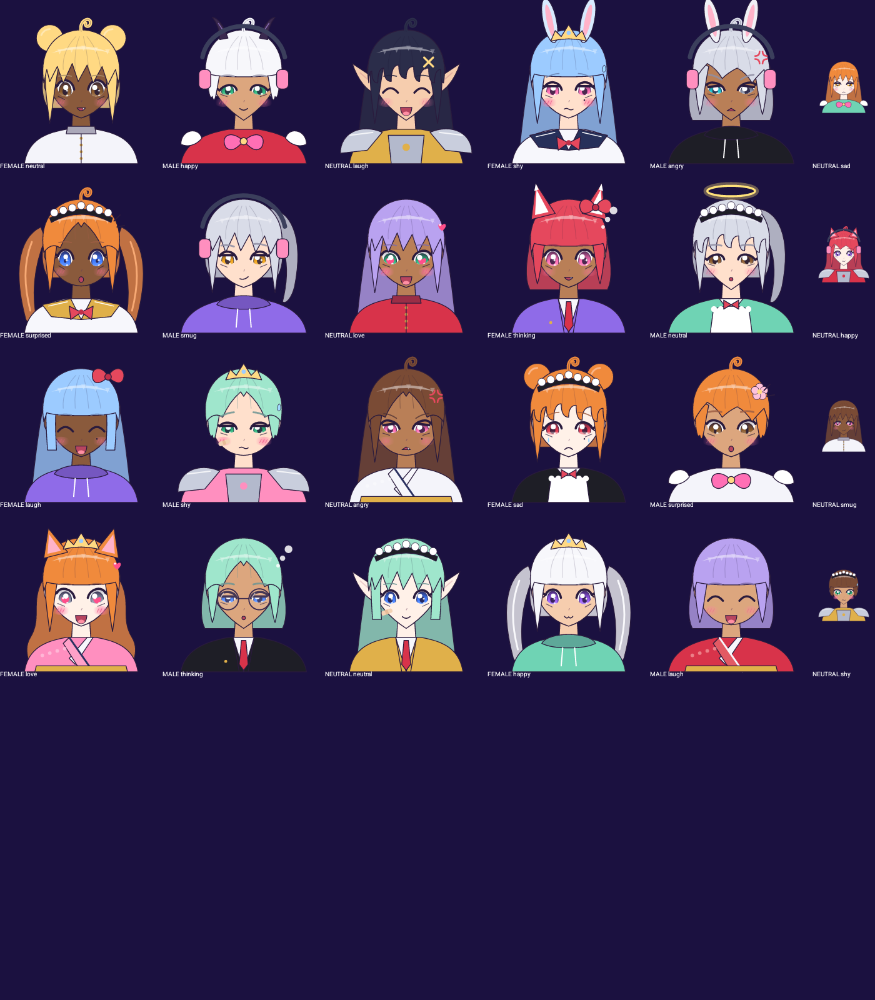
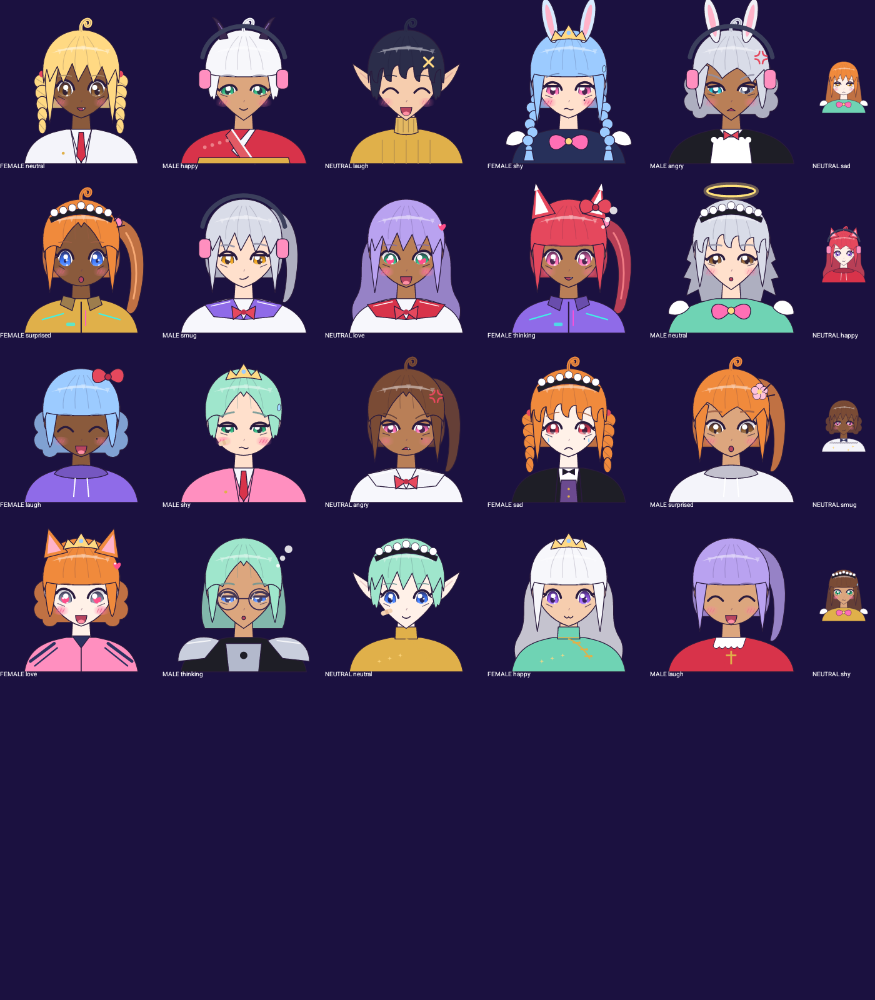
Add 6 hairstyles and 10 outfits
Hair: ojou drills, side ponytail, braids, wolf cut, over-the-shoulder
tail, fluffy. Outfits: idol, miko, ninja, butler, turtleneck, gothic
lolita, mage robe, cyberpunk jacket, sports jersey, qipao. Adds a
catalog snapshot covering every hair and outfit preset.

Claude-Session: https://claude.ai/code/session_01TAM1iriSvxCHZnyttFuwTp

diff --git a/app/src/main/java/com/animate/companion/ui/avatar/AvatarPainter.kt b/app/src/main/java/com/animate/companion/ui/avatar/AvatarPainter.kt
@@ -72,6 +72,7 @@ fun DrawScope.drawAvatar(a: Appearance, gender: Gender, pose: AvatarPose, headOn
         translate(0f, pose.breath * 0.4f) { c.body() }
         translate(0f, pose.breath) {
             c.earsBehind()
+            c.hairBesideFace()
             c.face()
             c.features()
             c.frontHair()
@@ -134,7 +135,26 @@ private class Ctx(
                     lineTo(24f, 72f)
                     cubicTo(20f, 64f, 22f, 52f, 24f, 40f)
                 }
-                1, 3, 6 -> { // tails / ponytail / buns: medium back
+                12 -> { // wolf cut: long jagged mane
+                    moveTo(24f, 40f)
+                    cubicTo(20f, 20f, 80f, 20f, 76f, 40f)
+                    lineTo(80f, 52f); lineTo(77f, 54f); lineTo(82f, 64f); lineTo(77f, 65f)
+                    lineTo(80f, 76f); lineTo(72f, 72f); lineTo(70f, 80f)
+                    lineTo(30f, 80f); lineTo(28f, 72f); lineTo(20f, 76f)
+                    lineTo(23f, 65f); lineTo(18f, 64f); lineTo(23f, 54f); lineTo(20f, 52f)
+                }
+                14 -> { // fluffy: scalloped medium
+                    moveTo(24f, 40f)
+                    cubicTo(20f, 20f, 80f, 20f, 76f, 40f)
+                    cubicTo(84f, 44f, 82f, 52f, 79f, 54f)
+                    cubicTo(84f, 58f, 81f, 66f, 76f, 66f)
+                    cubicTo(76f, 72f, 68f, 72f, 66f, 68f)
+                    lineTo(34f, 68f)
+                    cubicTo(32f, 72f, 24f, 72f, 24f, 66f)
+                    cubicTo(19f, 66f, 16f, 58f, 21f, 54f)
+                    cubicTo(18f, 52f, 16f, 44f, 24f, 40f)
+                }
+                1, 3, 6, 9, 10, 11 -> { // tails / ponytail / buns / drills / braids: medium back
                     moveTo(25f, 40f)
                     cubicTo(22f, 20f, 78f, 20f, 75f, 40f)
                     cubicTo(77f, 50f, 76f, 58f, 72f, 64f)
@@ -184,7 +204,22 @@ private class Ctx(
                 fillOutlined(tail, hairShadow)
             }
         }
+        if (a.hairStyle == 10) { // side ponytail with scrunchie
+            val tail = path {
+                moveTo(70f, 24f)
+                cubicTo(92f, 24f, 96f, 52f, 88f, 82f)
+                cubicTo(86f, 88f, 82f, 90f, 80f, 86f)
+                cubicTo(86f, 62f, 84f, 42f, 72f, 34f)
+                close()
+            }
+            fillOutlined(tail, hairShadow)
+            d.drawPath(path { moveTo(80f, 34f); cubicTo(88f, 46f, 88f, 64f, 85f, 78f) }, hair.lighter(0.25f), style = Stroke(1.2f, cap = StrokeCap.Round))
+        }
         fillOutlined(bp, hairShadow)
+        if (a.hairStyle == 10) {
+            d.drawCircle(Color(0xFFFF8FBF), 3.4f, Offset(74f, 27f))
+            d.drawCircle(line, 3.4f, Offset(74f, 27f), style = Stroke(outline))
+        }
         if (a.hairStyle == 6) { // odango buns
             for (side in listOf(-1f, 1f)) {
                 val center = Offset(50f + side * 21f, 17f)
@@ -301,6 +336,101 @@ private class Ctx(
                 for (i in 0..3) d.drawCircle(Color(0xFFE0B04A), 1f, Offset(50f, 84f + i * 4.5f))
                 d.drawLine(line, Offset(50f, 81f), Offset(50f, 101f), outline)
             }
+            8 -> { // idol stage costume
+                val frill = path {
+                    moveTo(30f, 84f)
+                    for (i in 0..10) quadraticBezierTo(32f + i * 4f, 88f, 34f + i * 4f, 84f)
+                    lineTo(74f, 86f); lineTo(26f, 86f); close()
+                }
+                fillOutlined(frill, Color.White, width = 0.4f)
+                val tie = path { moveTo(50f, 81f); lineTo(44f, 78f); lineTo(44f, 84f); close(); moveTo(50f, 81f); lineTo(56f, 78f); lineTo(56f, 84f); close() }
+                fillOutlined(tie, accent)
+                for ((sx, sy) in listOf(32f to 94f, 66f to 92f, 58f to 98f)) with(d) { sparkle(Offset(sx, sy), 2.4f, Color(0xFFFFD983)) }
+            }
+            9 -> { // miko: white haori, red hakama ties
+                val haori = path { moveTo(42f, 78f); lineTo(58f, 78f); lineTo(64f, 101f); lineTo(36f, 101f); close() }
+                fillOutlined(haori, Color(0xFFF7F7FC))
+                d.drawLine(line, Offset(42f, 78f), Offset(54f, 101f), outline)
+                d.drawLine(line, Offset(58f, 78f), Offset(48f, 92f), outline)
+                val hakama = path { moveTo(30f, 96f); lineTo(70f, 96f); lineTo(71f, 101f); lineTo(29f, 101f); close() }
+                fillOutlined(hakama, Color(0xFFD8334A))
+                d.drawCircle(Color(0xFFD8334A), 1.8f, Offset(50f, 96f))
+            }
+            10 -> { // ninja: scarf around the neck
+                val scarf = path { moveTo(40f, 72f); cubicTo(44f, 69f, 56f, 69f, 60f, 72f); lineTo(61f, 81f); cubicTo(55f, 84f, 45f, 84f, 39f, 81f); close() }
+                fillOutlined(scarf, accent.takeIf { cloth.luminance() < 0.3f } ?: Color(0xFFD8334A))
+                val tail = path { moveTo(57f, 80f); lineTo(70f, 92f); lineTo(66f, 95f); lineTo(54f, 82f); close() }
+                fillOutlined(tail, accent.takeIf { cloth.luminance() < 0.3f } ?: Color(0xFFD8334A))
+                d.drawLine(line, Offset(40f, 92f), Offset(60f, 92f), 1.4f)
+            }
+            11 -> { // butler tailcoat: vest + bow tie
+                val shirt = path { moveTo(43f, 78f); lineTo(57f, 78f); lineTo(54f, 101f); lineTo(46f, 101f); close() }
+                fillOutlined(shirt, Color.White)
+                val vest = path { moveTo(45f, 86f); lineTo(55f, 86f); lineTo(56f, 101f); lineTo(44f, 101f); close() }
+                fillOutlined(vest, Color(0xFF6B4A8F))
+                for (side in listOf(-1f, 1f)) d.drawLine(line, Offset(50f + side * 7f, 78f), Offset(50f + side * 9f, 101f), outline * 1.4f)
+                val bow = path { moveTo(50f, 80.5f); lineTo(46f, 78.5f); lineTo(46f, 82.5f); close(); moveTo(50f, 80.5f); lineTo(54f, 78.5f); lineTo(54f, 82.5f); close() }
+                fillOutlined(bow, Color(0xFF1E1E26))
+                d.drawCircle(Color(0xFFE0B04A), 0.8f, Offset(50f, 92f))
+                d.drawCircle(Color(0xFFE0B04A), 0.8f, Offset(50f, 97f))
+            }
+            12 -> { // turtleneck sweater
+                val collar = path { moveTo(43f, 70f); lineTo(57f, 70f); lineTo(58f, 80f); cubicTo(53f, 82f, 47f, 82f, 42f, 80f); close() }
+                fillOutlined(collar, cloth.lighter(0.1f))
+                for (i in 0..3) d.drawLine(cloth.darker(0.25f), Offset(44.5f + i * 3.5f, 71f), Offset(44.5f + i * 3.5f, 80f), 0.5f)
+                for (x in listOf(34f, 42f, 50f, 58f, 66f)) d.drawLine(cloth.darker(0.18f), Offset(x, 85f), Offset(x, 101f), 0.6f)
+            }
+            13 -> { // gothic lolita: lace collar + cross
+                val collar = path {
+                    moveTo(40f, 78f); lineTo(60f, 78f); lineTo(58f, 84f)
+                    for (i in 0..4) quadraticBezierTo(56f - i * 4f, 87f, 54f - i * 4f, 84f)
+                    close()
+                }
+                fillOutlined(collar, Color.White, width = 0.4f)
+                d.drawLine(Color(0xFFE0B04A), Offset(50f, 87f), Offset(50f, 96f), 1.2f)
+                d.drawLine(Color(0xFFE0B04A), Offset(46.5f, 90f), Offset(53.5f, 90f), 1.2f)
+                for (side in listOf(-1f, 1f)) for (k in 0..3) d.drawCircle(Color(0xFFD8334A), 0.7f, Offset(50f + side * 4f, 88f + k * 3.5f))
+            }
+            14 -> { // mage robe with hood and clasp
+                val hood = path { moveTo(26f, 86f); cubicTo(30f, 72f, 70f, 72f, 74f, 86f); cubicTo(64f, 80f, 36f, 80f, 26f, 86f); close() }
+                fillOutlined(hood, cloth.darker(0.25f))
+                val trim = path { moveTo(44f, 82f); lineTo(56f, 82f); lineTo(53f, 101f); lineTo(47f, 101f); close() }
+                fillOutlined(trim, cloth.darker(0.4f))
+                for (side in listOf(-1f, 1f)) d.drawLine(Color(0xFFE0B04A), Offset(50f + side * 6f, 82f), Offset(50f + side * 3f, 101f), 0.8f)
+                d.drawCircle(Color(0xFF9CCBFF), 2.4f, Offset(50f, 84f))
+                d.drawCircle(Color(0xFFE0B04A), 2.4f, Offset(50f, 84f), style = Stroke(0.8f))
+            }
+            15 -> { // cyber jacket with neon trim
+                val neon = Color(0xFF3FF2E6)
+                val collar = path { moveTo(38f, 76f); lineTo(46f, 78f); lineTo(44f, 86f); lineTo(36f, 82f); close(); moveTo(62f, 76f); lineTo(54f, 78f); lineTo(56f, 86f); lineTo(64f, 82f); close() }
+                fillOutlined(collar, cloth.darker(0.3f))
+                d.drawLine(line, Offset(50f, 80f), Offset(50f, 101f), 0.9f)
+                d.drawLine(neon, Offset(24f, 92f), Offset(38f, 88f), 0.9f, cap = StrokeCap.Round)
+                d.drawLine(neon, Offset(76f, 92f), Offset(62f, 88f), 0.9f, cap = StrokeCap.Round)
+                d.drawLine(Color(0xFFFF4FD8), Offset(53f, 86f), Offset(53f, 96f), 0.7f, cap = StrokeCap.Round)
+                d.drawRoundRect(neon.copy(alpha = 0.8f), Offset(40f, 94f), Size(6f, 2.4f), androidx.compose.ui.geometry.CornerRadius(1f))
+            }
+            16 -> { // sports jersey
+                for (side in listOf(-1f, 1f)) {
+                    d.drawLine(accent, Offset(50f + side * 18f, 82f), Offset(50f + side * 34f, 94f), 2f, cap = StrokeCap.Round)
+                    d.drawLine(accent, Offset(50f + side * 16f, 85f), Offset(50f + side * 31f, 97f), 1f, cap = StrokeCap.Round)
+                }
+                val zip = path { moveTo(44f, 77f); lineTo(56f, 77f); lineTo(50f, 85f); close() }
+                fillOutlined(zip, accent)
+                d.drawLine(line, Offset(50f, 85f), Offset(50f, 101f), 0.7f)
+            }
+            17 -> { // qipao: high collar, diagonal placket, frog buttons
+                val collar = path { moveTo(43f, 71f); lineTo(57f, 71f); lineTo(57.5f, 79f); lineTo(42.5f, 79f); close() }
+                fillOutlined(collar, cloth)
+                d.drawLine(Color(0xFFE0B04A), Offset(43f, 78f), Offset(57f, 78f), 0.6f)
+                val placket = path { moveTo(50f, 79f); quadraticBezierTo(58f, 82f, 64f, 92f) }
+                d.drawPath(placket, Color(0xFFE0B04A), style = Stroke(0.9f, cap = StrokeCap.Round))
+                for ((bx, by) in listOf(55f to 81.5f, 60f to 86f, 63f to 90.5f)) {
+                    d.drawLine(Color(0xFFE0B04A), Offset(bx - 2f, by), Offset(bx + 2f, by), 1f, cap = StrokeCap.Round)
+                    d.drawCircle(Color(0xFFE0B04A), 0.8f, Offset(bx + 2.2f, by))
+                }
+                for (i in 0..2) with(d) { sparkle(Offset(32f + i * 7f, 94f - i * 2f), 1.6f, Color(0xFFFFD983).copy(alpha = 0.8f)) }
+            }
             7 -> { // armor
                 for (side in listOf(-1f, 1f)) {
                     val pad = path {
@@ -339,6 +469,50 @@ private class Ctx(
         }
         cubicTo(72f, 18f, 28f, 18f, 28f, 42f)
         close()
+    }
+
+    fun hairBesideFace() {
+        when (a.hairStyle) {
+            9 -> { // ojou drills
+                for (side in listOf(-1f, 1f)) {
+                    val x = 50f + side * 26f
+                    for (k in 0 until 5) {
+                        val w = 11f - k * 1.4f
+                        val cy = 46f + k * 7.5f
+                        val seg = path { addOval(androidx.compose.ui.geometry.Rect(x - w / 2f, cy - 5f, x + w / 2f, cy + 5f)) }
+                        fillOutlined(seg, hair)
+                        d.drawLine(hairDark.copy(alpha = 0.6f), Offset(x - w * 0.4f, cy - 2f), Offset(x + w * 0.35f, cy + 3f), 0.5f, cap = StrokeCap.Round)
+                    }
+                    d.drawCircle(Color(0xFFE5485D), 2.2f, Offset(x, 41f))
+                }
+            }
+            11 -> { // two braids over the shoulders
+                for (side in listOf(-1f, 1f)) {
+                    val x = 50f + side * 23f
+                    for (k in 0 until 6) {
+                        val cx = x + (if (k % 2 == 0) -1f else 1f) * 1.2f * side + side * k * 0.6f
+                        val cy = 58f + k * 5.5f
+                        val seg = path { addOval(androidx.compose.ui.geometry.Rect(cx - 3.6f, cy - 3.6f, cx + 3.6f, cy + 3.6f)) }
+                        fillOutlined(seg, hair)
+                    }
+                    val tipX = x + side * 3.6f
+                    d.drawCircle(Color(0xFF9CCBFF), 2f, Offset(tipX, 91f))
+                    fillOutlined(path { moveTo(tipX - 2f, 92f); lineTo(tipX - 3.5f, 99f); lineTo(tipX + 3.5f, 99f); lineTo(tipX + 2f, 92f); close() }, hair)
+                }
+            }
+            13 -> { // low tail draped over the shoulder
+                val tail = path {
+                    moveTo(58f, 60f)
+                    cubicTo(70f, 64f, 74f, 78f, 72f, 98f)
+                    lineTo(66f, 99f)
+                    cubicTo(66f, 82f, 62f, 72f, 54f, 66f)
+                    close()
+                }
+                fillOutlined(tail, hair)
+                d.drawRoundRect(Color(0xFFE5485D), Offset(59f, 63f), Size(6f, 3f), androidx.compose.ui.geometry.CornerRadius(1f))
+                d.drawPath(path { moveTo(64f, 70f); cubicTo(69f, 78f, 70f, 88f, 69f, 96f) }, hair.lighter(0.3f), style = Stroke(0.8f, cap = StrokeCap.Round))
+            }
+        }
     }
 
     fun face() {
@@ -622,7 +796,10 @@ private class Ctx(
         // Side locks framing the face.
         val lockEnd = when (a.hairStyle) {
             4, 8 -> 56f
+            13 -> 60f
+            14 -> 64f
             2 -> 68f
+            12 -> 70f
             7 -> 66f
             else -> 74f
         }

diff --git a/app/src/main/java/com/animate/companion/model/Presets.kt b/app/src/main/java/com/animate/companion/model/Presets.kt
@@ -36,6 +36,12 @@ object AppearancePresets {
         LookOption("Оданго", "два пучка-оданго на макушке", setOf(Gender.FEMALE)),
         LookOption("Химэ-катто", "химэ-катто: длинные волосы и ровные боковые пряди", setOf(Gender.FEMALE, Gender.NEUTRAL)),
         LookOption("Короткие", "короткая мальчишеская стрижка"),
+        LookOption("Дрели-локоны", "аристократичные локоны-дрели как у оджо-сама", setOf(Gender.FEMALE)),
+        LookOption("Боковой хвост", "хвост набок с резинкой-скранчи", setOf(Gender.FEMALE, Gender.NEUTRAL)),
+        LookOption("Косы", "две косы, перекинутые на плечи", setOf(Gender.FEMALE, Gender.NEUTRAL)),
+        LookOption("Волчья грива", "длинная дикая грива (волчья стрижка)", setOf(Gender.MALE, Gender.NEUTRAL)),
+        LookOption("Хвост на плече", "длинный низкий хвост, перекинутый через плечо, как у самурая"),
+        LookOption("Пушистые", "пушистые волосы средней длины"),
     )
 
     val bangs = listOf(
@@ -119,6 +125,16 @@ object AppearancePresets {
         LookOption("Махо-сёдзё", "наряд волшебницы с большим бантом"),
         LookOption("Гакуран", "чёрный гакуран со стойкой"),
         LookOption("Доспех", "лёгкий рыцарский доспех"),
+        LookOption("Айдол", "сценический костюм айдола с рюшами"),
+        LookOption("Мико", "наряд мико: белое кимоно и красная хакама"),
+        LookOption("Ниндзя", "костюм ниндзя с длинным шарфом"),
+        LookOption("Дворецкий", "фрак дворецкого с жилетом и бабочкой"),
+        LookOption("Свитер", "уютный свитер с высоким горлом"),
+        LookOption("Готик-лолита", "готическое платье с кружевным воротником и крестиком"),
+        LookOption("Мантия мага", "мантия мага с капюшоном и магической застёжкой"),
+        LookOption("Киберпанк", "киберпанк-куртка с неоновыми полосами"),
+        LookOption("Спортивная", "спортивная форма-джерси"),
+        LookOption("Ципао", "китайское платье ципао с воротником-стойкой"),
     )
 
     val outfitColors = listOf(

diff --git a/app/src/test/java/com/animate/companion/snap/AvatarSnapshotTest.kt b/app/src/test/java/com/animate/companion/snap/AvatarSnapshotTest.kt
@@ -94,3 +94,29 @@ class AvatarBigSnapshotTest {
         }
     }
 }
+
+class AvatarCatalogSnapshotTest {
+    @get:Rule
+    val paparazzi = Paparazzi(deviceConfig = DeviceConfig.PIXEL_5, maxPercentDifference = 1.0)
+
+    @Test
+    fun hairAndOutfits() {
+        val p = com.animate.companion.model.AppearancePresets
+        paparazzi.snapshot {
+            Column(Modifier.background(Color(0xFF1B1140))) {
+                (p.hairStyles.indices.toList() + p.outfits.indices.map { 100 + it }).chunked(5).forEach { row ->
+                    Row {
+                        row.forEach { i ->
+                            val a = if (i < 100) Appearance(hairStyle = i, hairColor = i % 11, bangs = i % 5, eyeColor = i % 9)
+                            else Appearance(outfit = i - 100, outfitColor = (i - 100) % 8, hairStyle = 2, hairColor = 3)
+                            Column {
+                                AvatarView(a, Gender.FEMALE, Modifier.size(78.dp), animated = false)
+                                Text(if (i < 100) p.hairStyles[i].label else p.outfits[i - 100].label, color = Color.White, fontSize = 7.sp)
+                            }
+                        }
+                    }
+                }
+            }
+        }
+    }
+}

diff --git a/app/src/test/java/com/animate/companion/LogicTest.kt b/app/src/test/java/com/animate/companion/LogicTest.kt
@@ -89,7 +89,7 @@ class LogicTest {
         assertEquals(Appearance(), Appearance.fromJson("garbage"))
         repeat(100) {
             val m = Appearance.random(Gender.MALE, Random(it))
-            assertTrue(m.hairStyle !in setOf(0, 1, 5, 6, 7))
+            assertTrue(m.hairStyle !in setOf(0, 1, 5, 6, 7, 9, 10, 11))
         }
     }
 }

diff --git a/README.md b/README.md
@@ -8,9 +8,15 @@
 
 ![avatars](docs/avatars.png)
 
+<details><summary>Все причёски и наряды</summary>
+
+![catalog](docs/catalog.png)
+
+</details>
+
 ## Возможности
 
-- **Конструктор внешности** — 13 категорий пресетов с живым превью каждого варианта: причёска (хвостики, химэ-катто, оданго, сёнэн-шипы…), чёлка, цвет волос, глаза (сёдзё-блеск, цуримэ, тарэмэ, кошачьи…), рот, лицо, кожа, ушки (нэко, кицунэ, зайка, эльф, рожки, нимб), аксессуары, одежда (сэрафуку, горничная, кимоно, махо-сёдзё, гакуран…), особенности (ахогэ, клычок, гетерохромия…). Кнопка 🎲 — случайный персонаж.
+- **Конструктор внешности** — 13 категорий пресетов с живым превью каждого варианта: 15 причёсок (хвостики, химэ-катто, оданго, дрели-локоны, косы, боковой хвост, волчья грива, сёнэн-шипы…), чёлка, цвет волос, глаза (сёдзё-блеск, цуримэ, тарэмэ, кошачьи…), рот, лицо, кожа, ушки (нэко, кицунэ, зайка, эльф, рожки, нимб), аксессуары, 18 нарядов (сэрафуку, горничная, кимоно, махо-сёдзё, айдол, мико, ниндзя, дворецкий, готик-лолита, мантия мага, киберпанк, ципао…), особенности (ахогэ, клычок, гетерохромия…). Кнопка 🎲 — случайный персонаж.
 - **Пол и имя** — генератор японских имён в стиле аниме (девушка / парень / андрогин) + свободное описание.
 - **Характер** — 10 архетипов (цундэрэ, кудэрэ, дандэрэ, мягкая яндэрэ, гэнки, химэдэрэ, тюнибё…), 18 профессий/ролей, 9 направлений общения (романтика, приключение, повседневность, учим японский…).
 - **Чат** — эмоции `[emo:…]` из ответа меняют лицо персонажа (10 выражений), моргание, дыхание, анимация рта; *действия* в звёздочках подсвечиваются; перегенерация, копирование, удаление сообщений.
